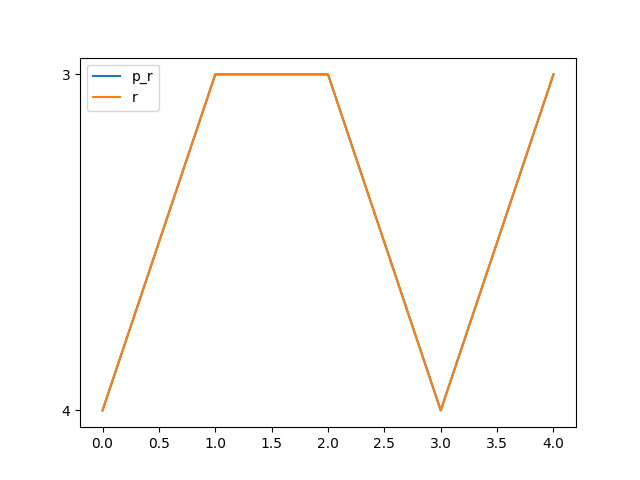
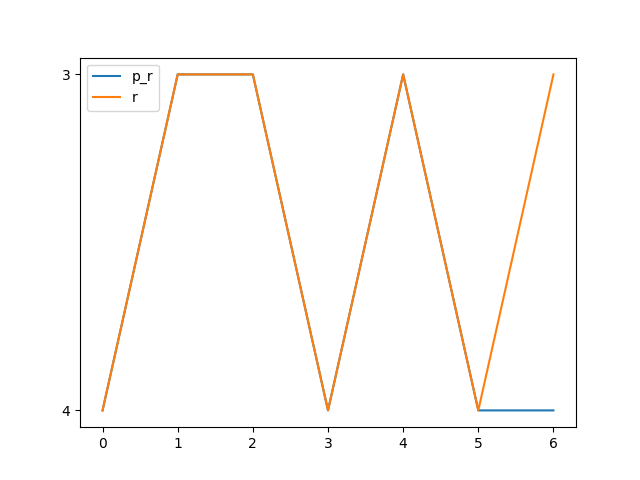
0x0006

diff --git a/benchmark.md b/benchmark.md
@@ -12,7 +12,9 @@ Synthesising 0x0004 pexact:152 r=3 exact:152 r=3
 
 Synthesising 0x0005 pexact:182 r=4 exact:352 r=4
 
-<img src=benchmark_r1.png width=400 heigth=400>
+Synthesising 0x0006 pexact:208 r=4 exact:224 r=3
 
-<img src=benchmark_s1.png width=400 heigth=400>
+<img src=benchmark_r0.png width=400 heigth=400>
+
+<img src=benchmark_s0.png width=400 heigth=400>
 
